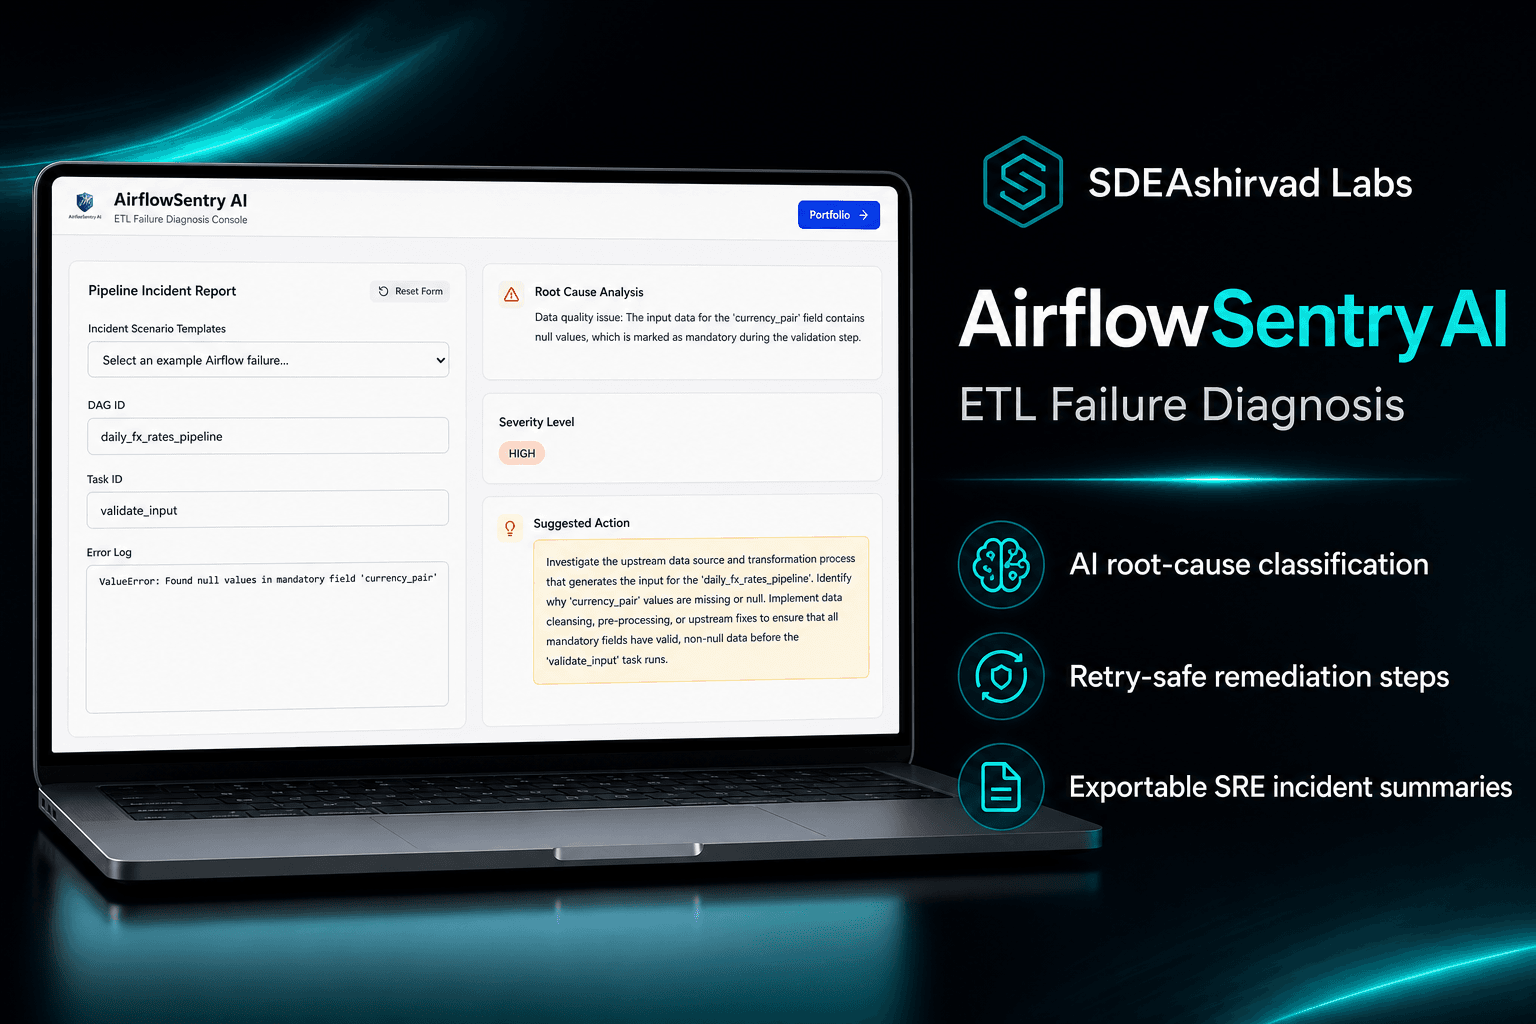
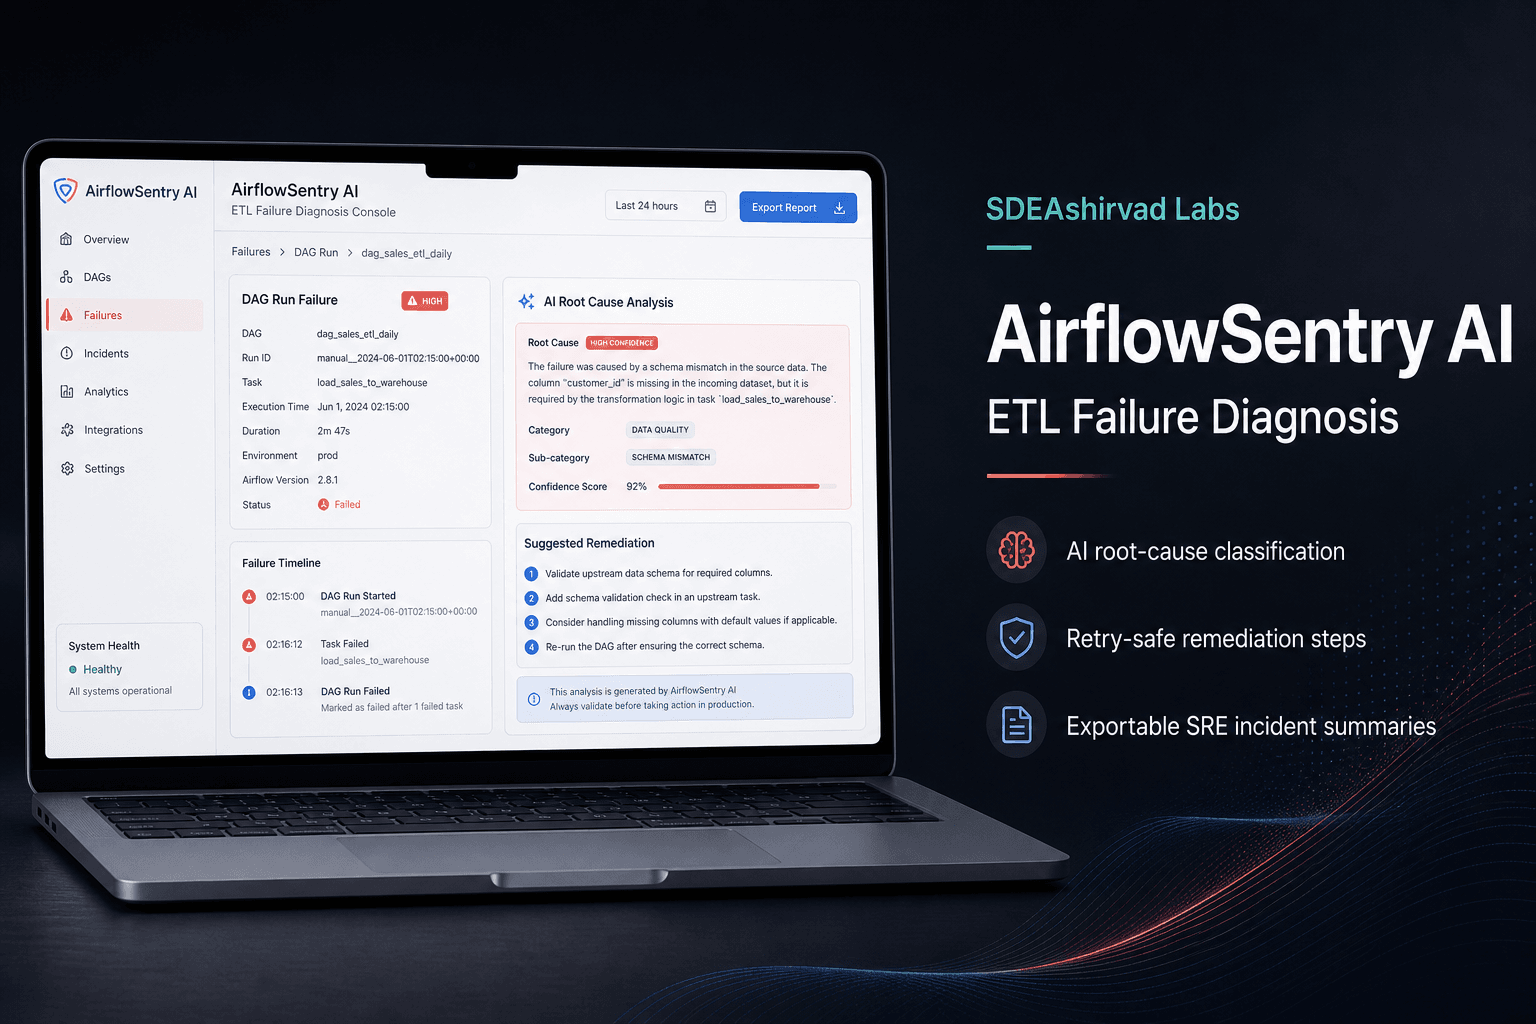
HUSTLER | Updates new projects

diff --git a/src/content/products.ts b/src/content/products.ts
@@ -67,6 +67,48 @@ export const products: Product[] = [
     featured: true,
   },
   {
+    slug: "specsentinel",
+    name: "SpecSentinel",
+    tagline: "Open-source API contract governance",
+    status: "live",
+    url: "https://specsentinel.sdeashirvad.com",
+    github: "https://github.com/sdeashirvad/specsentinel",
+    npm: "https://www.npmjs.com/package/specsentinel",
+    moat: "Published on npm — install via npx specsentinel in any CI pipeline",
+    storyKey: "specsentinel",
+    problem:
+      "Breaking API changes ship through PRs undetected until production — contract drift has no gate.",
+    solution:
+      "Detect breaking OpenAPI changes, calculate deployment risk, enforce governance policies, and integrate via CLI, GitHub Actions, PR comments, and Studio.",
+    architecture:
+      "Spec Diff → Risk Engine → Policy Gate → CLI / GitHub Actions / PR Comment / Studio",
+    architectureDetail:
+      "Configurable governance policies with interactive Studio/WebView for contract review before merge.",
+    technologies: [
+      "TypeScript",
+      "Node.js",
+      "React",
+      "Vite",
+      "GitHub Actions",
+      "OpenAPI",
+      "JSON Schema",
+      "Vitest",
+    ],
+    images: [
+      "/projects/specsentinel-0.png",
+      "/projects/specsentinel-1.png",
+      "/projects/specsentinel-2.png",
+      "/projects/specsentinel-3.png",
+      "/projects/specsentinel-4.png",
+    ],
+      metrics: [
+        "Breaking OpenAPI change detection with deployment risk scoring",
+        "Published on npm — npx specsentinel for CI/CD pipelines",
+        "CLI, GitHub Actions, and PR comment integrations",
+      ],
+    featured: false,
+  },
+  {
     slug: "goforge",
     name: "GoForge",
     tagline: "Workflow orchestration platform",
@@ -83,7 +125,12 @@ export const products: Product[] = [
     architectureDetail:
       "Watch worker utilization, queue depth, and job status distribution in real time. Load demos and job monitors validate orchestration behavior before production wiring.",
     technologies: ["Go", "Worker Pools", "Job Queues", "Retries", "Observability"],
-    images: ["/projects/goforge-1.svg"],
+    images: [
+      "/projects/goforge-1.png",
+      "/projects/goforge-2.png",
+      "/projects/goforge-3.png",
+      "/projects/goforge-4.png",
+    ],
     metrics: [
       "Real-time worker pool and queue depth observatory",
       "Configurable retries with job lifecycle tracking",

diff --git a/src/pages/HomePage.tsx b/src/pages/HomePage.tsx
@@ -5,17 +5,13 @@ import { ProductCard } from "../components/ui/ProductCard";
 import { SectionHeader } from "../components/ui/SectionHeader";
 import { ResearchCard } from "../components/ui/ResearchCard";
 import { InsightCard } from "../components/ui/InsightCard";
-import { getFeaturedProducts, getLiveProducts, getResearchProducts } from "../content/products";
+import { getLiveProducts, getResearchProducts } from "../content/products";
 import { principles } from "../content/principles";
 import { insights } from "../content/insights";
 
 export function HomePage() {
-  const featured = getFeaturedProducts();
   const liveProducts = getLiveProducts();
   const research = getResearchProducts();
-  const otherLive = liveProducts.filter(
-    (p) => !featured.some((f) => f.slug === p.slug),
-  );
 
   return (
     <>
@@ -65,24 +61,17 @@ export function HomePage() {
             title="Products in production"
             description="Live platforms built with production-grade architecture — each stands alone today, designed to connect tomorrow."
           />
-          <div className="mt-10 grid gap-6 md:grid-cols-2">
-            {featured.map((product) => (
+          <div className="mt-10 grid gap-6 md:grid-cols-2 lg:grid-cols-3">
+            {liveProducts.map((product) => (
               <ProductCard key={product.slug} product={product} />
             ))}
           </div>
-          {otherLive.length > 0 && (
-            <div className="mt-6 flex flex-wrap gap-3">
-              {otherLive.map((product) => (
-                <Link
-                  key={product.slug}
-                  to={`/products/${product.slug}`}
-                  className="rounded-full border border-border bg-surface px-4 py-2 text-sm text-muted-foreground transition-colors hover:border-accent/40 hover:text-foreground"
-                >
-                  {product.name}
-                </Link>
-              ))}
-            </div>
-          )}
+          <Link
+            to="/products"
+            className="mt-8 inline-block text-sm font-medium text-accent hover:underline"
+          >
+            View all products →
+          </Link>
         </div>
       </section>
 

diff --git a/src/pages/ProductPage.tsx b/src/pages/ProductPage.tsx
@@ -2,6 +2,7 @@ import { useParams, Link, Navigate } from "react-router-dom";
 import { ExternalLink } from "lucide-react";
 import { PageMeta } from "../components/PageMeta";
 import { StatusBadge } from "../components/ui/StatusBadge";
+import { NpmIcon } from "../components/ui/NpmIcon";
 import { FeaturePanel } from "../components/ui/FeaturePanel";
 import { ArchitectureCard } from "../components/ui/ArchitectureCard";
 import { MetricCard } from "../components/ui/MetricCard";
@@ -52,6 +53,18 @@ export function ProductPage() {
           </h1>
           <p className="mt-4 text-xl text-muted-foreground">{product.tagline}</p>
 
+          {product.moat && (
+            <a
+              href={product.npm}
+              target="_blank"
+              rel="noopener noreferrer"
+              className="mt-4 inline-flex items-center gap-2 rounded-lg border border-[#cb3837]/30 bg-[#cb3837]/10 px-4 py-2.5 text-sm font-medium text-[#ff8a8a] transition-colors hover:bg-[#cb3837]/20"
+            >
+              <NpmIcon className="h-4 w-4 shrink-0" />
+              {product.moat}
+            </a>
+          )}
+
           <div className="mt-6 flex flex-wrap gap-3">
             {product.url && (
               <a
@@ -72,6 +85,18 @@ export function ProductPage() {
                 className="inline-flex min-h-[44px] items-center gap-2 rounded-lg border border-border px-5 py-2.5 text-sm font-medium text-foreground hover:bg-surface"
               >
                 Source
+                <ExternalLink className="h-4 w-4" aria-hidden="true" />
+              </a>
+            )}
+            {product.npm && (
+              <a
+                href={product.npm}
+                target="_blank"
+                rel="noopener noreferrer"
+                className="inline-flex min-h-[44px] items-center gap-2 rounded-lg border border-[#cb3837]/40 bg-[#cb3837]/10 px-5 py-2.5 text-sm font-medium text-[#ff8a8a] hover:bg-[#cb3837]/20"
+              >
+                <NpmIcon className="h-4 w-4" />
+                npm package
                 <ExternalLink className="h-4 w-4" aria-hidden="true" />
               </a>
             )}

diff --git a/src/components/ui/ProductCard.tsx b/src/components/ui/ProductCard.tsx
@@ -1,6 +1,7 @@
 import { Link } from "react-router-dom";
 import type { Product } from "../../content/types";
 import { StatusBadge } from "./StatusBadge";
+import { NpmIcon } from "./NpmIcon";
 
 interface ProductCardProps {
   product: Product;
@@ -19,6 +20,12 @@ export function ProductCard({ product, compact = false }: ProductCardProps) {
             {product.name}
           </h3>
           <p className="mt-1 text-sm text-muted-foreground">{product.tagline}</p>
+          {product.moat && (
+            <span className="mt-2 inline-flex items-center gap-1.5 rounded-full border border-[#cb3837]/30 bg-[#cb3837]/10 px-2.5 py-1 text-xs font-medium text-[#ff8a8a]">
+              <NpmIcon className="h-3 w-3" />
+              npm
+            </span>
+          )}
         </div>
         <StatusBadge status={product.status} />
       </div>

diff --git a/src/content/stories.ts b/src/content/stories.ts
@@ -3,6 +3,8 @@ export const stories: Record<string, string> = {
     "I watched risk teams chase P&L breaks through spreadsheets long after the market moved. I built the review loop I wished existed — rules first, AI second, humans always in control.",
   chatloom:
     "Every GenAI demo was a single chat box. I wanted to prove multi-tenant RAG, personas, and real channels could share one backend — so I built it on nights and weekends until Telegram and web ran on the same orchestration layer.",
+  specsentinel:
+    "Breaking API changes used to surface in production, not in pull requests. I built SpecSentinel because contract drift deserved a gate — OpenAPI diffs, risk scores, and governance policies before deploy, not after the incident.",
   goforge:
     "Pipelines fail in the gaps between services — retries, queues, workers fighting for the same job. GoForge started as a place to watch orchestration breathe, not as a slide deck.",
   sentryai:

diff --git a/src/content/types.ts b/src/content/types.ts
@@ -9,6 +9,8 @@ export interface Product {
   status: ProductStatus;
   url?: string;
   github?: string;
+  npm?: string;
+  moat?: string;
   privateSource?: boolean;
   storyKey: string;
   problem: string;

diff --git a/README.md b/README.md
@@ -48,6 +48,7 @@ Labs product pages link to target `*.sdeashirvad.com` URLs. Configure redirects 
 
 | Product | Legacy URL | Target URL |
 |---------|------------|------------|
+| SpecSentinel | — | specsentinel.sdeashirvad.com |
 | PnLGuard | pnlgaurd.ashirvad.work | pnlguard.sdeashirvad.com |
 | ChatLoom | chatloom.ashirvad.work | chatloom.sdeashirvad.com |
 | SentryAI | sentryai.ashirvad.work | sentryai.sdeashirvad.com |